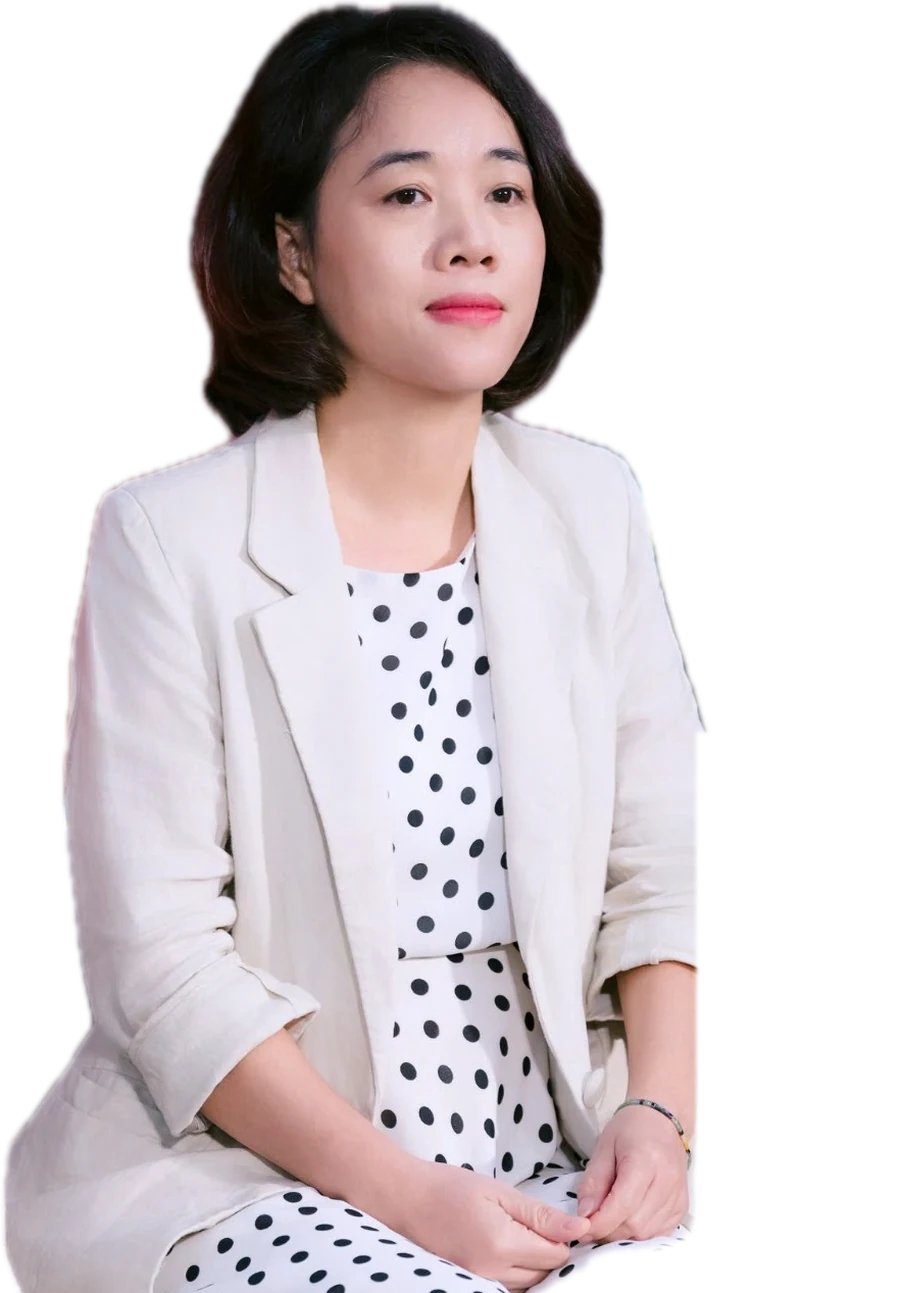
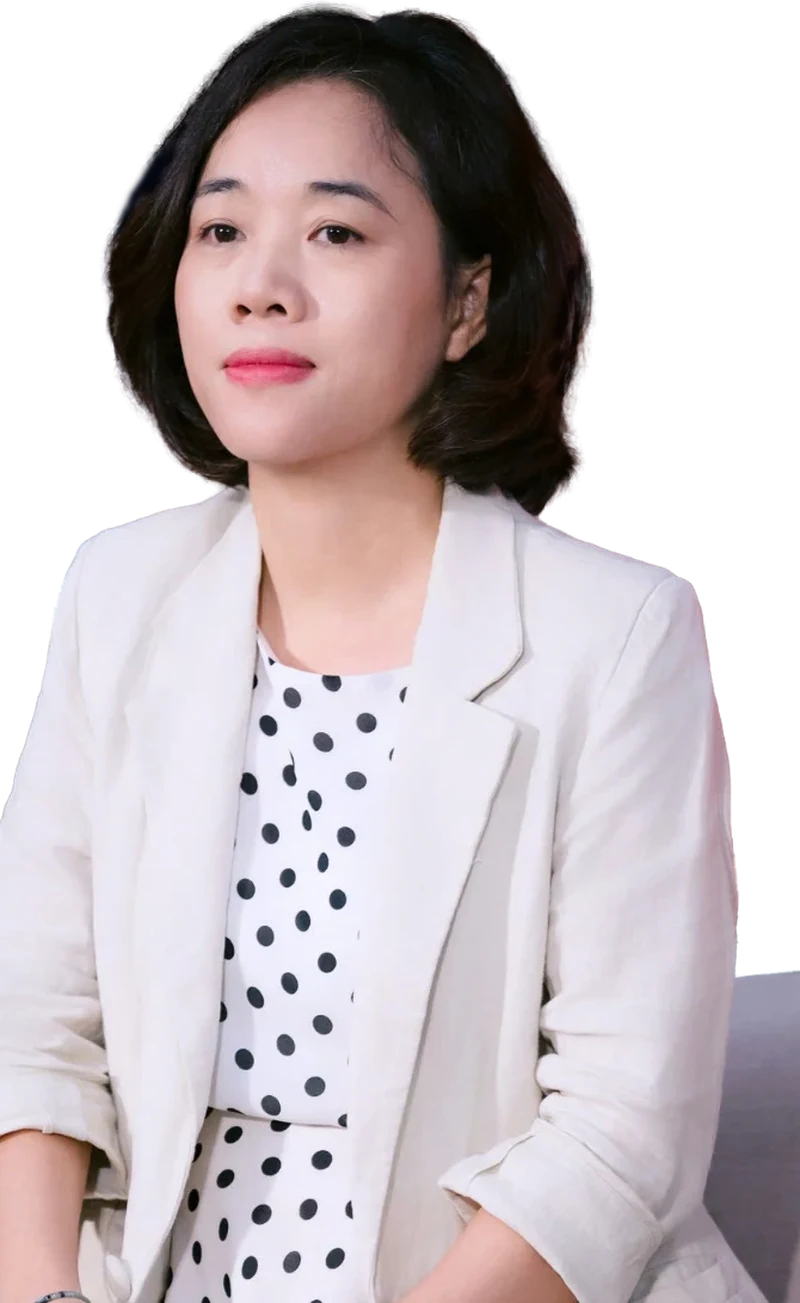
Use provided Trần Tám cut-out, drop speaker profile links
- New portrait cropped to exclude chair arms and bottles, scale 1.5
- Remove 'Xem profile chuyên gia' links (they pointed at href='#')

diff --git a/index.html b/index.html
@@ -22,7 +22,7 @@
   <link rel="preconnect" href="https://fonts.gstatic.com" crossorigin>
   <link href="https://fonts.googleapis.com/css2?family=Be+Vietnam+Pro:wght@300;400;500;600;700&display=swap" rel="stylesheet">
 
-  <link rel="stylesheet" href="assets/css/style.css?v=20260923a">
+  <link rel="stylesheet" href="assets/css/style.css?v=20260923b">
   <script>document.documentElement.classList.add('js');</script>
 </head>
 <body>
@@ -458,18 +458,13 @@
           <article class="speaker reveal">
             <div class="speaker-photo" data-initials="NĐT">
               <!-- Ảnh đã tách nền: assets/images/speaker-nguyen-dinh-thanh.webp -->
-              <img src="assets/images/speaker-nguyen-dinh-thanh.webp?v=20260923a" alt="Chuyên gia Truyền thông Nguyễn Đình Thành"
+              <img src="assets/images/speaker-nguyen-dinh-thanh.webp?v=20260923b" alt="Chuyên gia Truyền thông Nguyễn Đình Thành"
                    width="480" height="600" loading="lazy" decoding="async" onerror="this.remove()">
               <span class="photo-tag">Diễn giả</span>
             </div>
             <p class="speaker-role">Chuyên gia Truyền thông</p>
             <h3 class="speaker-name">Nguyễn Đình Thành</h3>
             <p class="speaker-bio">Ông là một trong những chuyên gia uy tín trong các lĩnh vực như xây dựng và truyền thông thương hiệu, truyền thông văn hóa, văn hóa doanh nghiệp, xử lý khủng hoảng truyền thông...</p>
-            <!-- TODO: thay href bằng link profile / Facebook của chuyên gia -->
-            <a href="#" class="link-arrow" target="_blank" rel="noopener">
-              Xem profile chuyên gia
-              <svg class="icon icon-sm" aria-hidden="true" focusable="false"><use href="#i-arrow-up-right"/></svg>
-            </a>
           </article>
 
           <!-- Host (center) -->
@@ -481,7 +476,7 @@
               <span class="orb orb-blue host-dot"></span>
               <div class="host-photo" data-initials="NH">
                 <!-- Ảnh đã tách nền: assets/images/host-ngo-huyen.webp -->
-                <img src="assets/images/host-ngo-huyen.webp?v=20260923a" alt="MC Ngô Huyền"
+                <img src="assets/images/host-ngo-huyen.webp?v=20260923b" alt="MC Ngô Huyền"
                      width="320" height="320" loading="lazy" decoding="async" onerror="this.remove()">
               </div>
             </div>
@@ -493,18 +488,13 @@
           <article class="speaker reveal reveal-d2">
             <div class="speaker-photo" data-initials="TT">
               <!-- Ảnh đã tách nền: assets/images/speaker-tran-tam.webp -->
-              <img src="assets/images/speaker-tran-tam.webp?v=20260923a" alt="Luật sư Trần Tám" style="--photo-scale:1.45"
+              <img src="assets/images/speaker-tran-tam.webp?v=20260923b" alt="Luật sư Trần Tám" style="--photo-scale:1.5"
                    width="480" height="600" loading="lazy" decoding="async" onerror="this.remove()">
               <span class="photo-tag">Diễn giả</span>
             </div>
             <p class="speaker-role">Luật sư</p>
             <h3 class="speaker-name">Trần Tám</h3>
             <p class="speaker-bio">Bà đã có 20 năm kinh nghiệm tư vấn và đại diện trong lĩnh vực sở hữu trí tuệ.</p>
-            <!-- TODO: bổ sung bio + link profile -->
-            <a href="#" class="link-arrow" target="_blank" rel="noopener">
-              Xem profile chuyên gia
-              <svg class="icon icon-sm" aria-hidden="true" focusable="false"><use href="#i-arrow-up-right"/></svg>
-            </a>
           </article>
         </div>
       </div>
@@ -682,6 +672,6 @@
     <a href="#dang-ky" class="btn btn-primary" tabindex="-1">Đăng ký ngay</a>
   </div>
 
-  <script src="assets/js/main.js?v=20260923a" defer></script>
+  <script src="assets/js/main.js?v=20260923b" defer></script>
 </body>
 </html>
